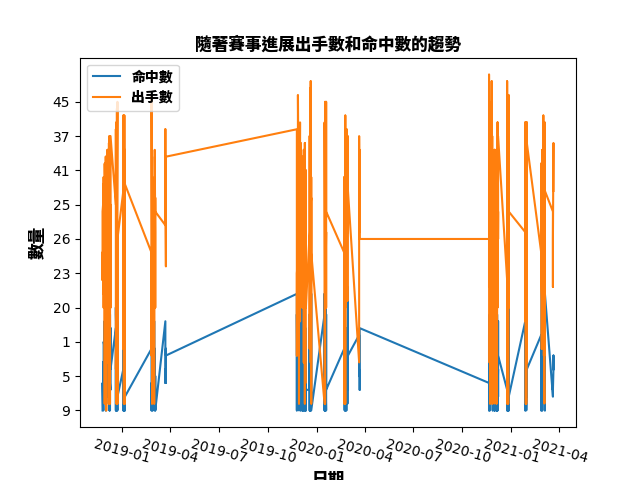
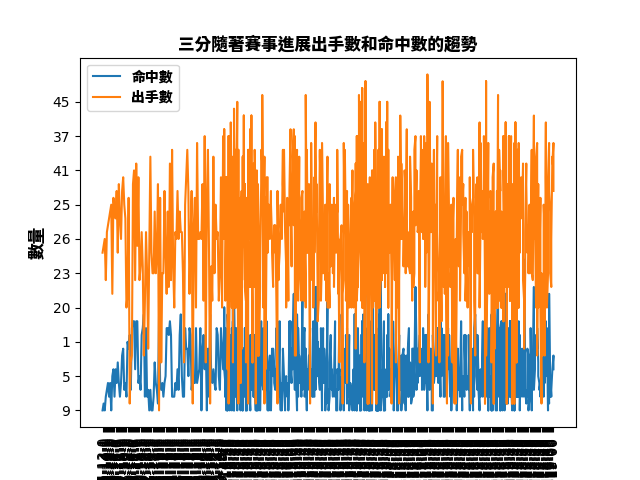
Generating graphs

diff --git a/graph_generator.py b/graph_generator.py
@@ -9,7 +9,7 @@ df2 = df1["三分"].str.split("-", expand = True)
 df1["命中"] = df2[0]
 df1["出手"] = df2[1]
 
-x = pd.to_datetime(df1["日期"].str[:10]) # 日期
+x = df1["日期"] # 日期
 y1 = df1["命中"] # 命中
 y2 = df1["出手"] # 出手
 y3 = df1["%.1"] / 100 # 命中率
@@ -19,28 +19,28 @@ myfont = FontProperties(fname = r"./NotoSansTC-Black.otf")
 plt.plot(x, y1, "-")
 plt.plot(x, y2, "-")
 # 設定標頭和字體
-plt.title('隨著賽事進展出手數和命中數的趨勢', fontproperties=myfont, fontsize = 12)
+plt.title('三分隨著賽事進展出手數和命中數的趨勢', fontproperties=myfont, fontsize = 12)
 # 設定 x 軸標頭和字體
 plt.xlabel('日期', fontproperties=myfont, fontsize = 12)
 # 設定 y 軸標頭和字體
 plt.ylabel('數量', fontproperties=myfont, fontsize = 12)
 # 設定右上角說明圖示字體
 plt.legend(["命中數", "出手數"], prop = myfont, fontsize = 12)
-plt.xticks(rotation=-15)
+plt.xticks(rotation=90)
 plt.yticks(range(0, 50, 5))
 plt.savefig('三分_命中數與出手數_by_date')
 plt.clf()
 
 plt.plot(x, y3, "-")
 # 設定標頭和字體
-plt.title('隨著賽事進展命中率的趨勢', fontproperties=myfont, fontsize = 12)
+plt.title('三分隨著賽事進展命中率的趨勢', fontproperties=myfont, fontsize = 12)
 # 設定 x 軸標頭和字體
 plt.xlabel('日期', fontproperties=myfont, fontsize = 12)
 # 設定 y 軸標頭和字體
 plt.ylabel('命中率', fontproperties=myfont, fontsize = 12)
 # 設定右上角說明圖示字體
 plt.legend(["命中率"], prop = myfont, fontsize = 12)
-plt.xticks(rotation=-15)
+plt.xticks(rotation=90)
 plt.savefig('三分_命中率_by_date')
 plt.clf()
 
@@ -50,7 +50,7 @@ df2 = df1["二分"].str.split("-", expand = True)
 df1["命中"] = df2[0]
 df1["出手"] = df2[1]
 
-x = pd.to_datetime(df1["日期"].str[:10]) # 日期
+x = df1["日期"] # 日期
 y1 = df1["命中"] # 命中
 y2 = df1["出手"] # 出手
 y3 = df1["%"] / 100 # 命中率
@@ -60,27 +60,27 @@ myfont = FontProperties(fname = r"./NotoSansTC-Black.otf")
 plt.plot(x, y1, "-")
 plt.plot(x, y2, "-")
 # 設定標頭和字體
-plt.title('隨著賽事進展出手數和命中數的趨勢', fontproperties=myfont, fontsize = 12)
+plt.title('二分隨著賽事進展出手數和命中數的趨勢', fontproperties=myfont, fontsize = 12)
 # 設定 x 軸標頭和字體
 plt.xlabel('日期', fontproperties=myfont, fontsize = 12)
 # 設定 y 軸標頭和字體
 plt.ylabel('數量', fontproperties=myfont, fontsize = 12)
 # 設定右上角說明圖示字體
 plt.legend(["命中數", "出手數"], prop = myfont, fontsize = 12)
-plt.xticks(rotation=-15)
+plt.xticks(rotation=90)
 plt.yticks(range(0, 45, 5))
 plt.savefig('二分_命中數與出手數_by_date')
 plt.clf()
 
 plt.plot(x, y3, "-")
 # 設定標頭和字體
-plt.title('隨著賽事進展命中率的趨勢', fontproperties=myfont, fontsize = 12)
+plt.title('二分隨著賽事進展命中率的趨勢', fontproperties=myfont, fontsize = 12)
 # 設定 x 軸標頭和字體
 plt.xlabel('日期', fontproperties=myfont, fontsize = 12)
 # 設定 y 軸標頭和字體
 plt.ylabel('命中率', fontproperties=myfont, fontsize = 12)
 # 設定右上角說明圖示字體
 plt.legend(["命中率"], prop = myfont, fontsize = 12)
-plt.xticks(rotation=-15)
+plt.xticks(rotation=90)
 plt.savefig('二分_命中率_by_date')
 plt.clf()
